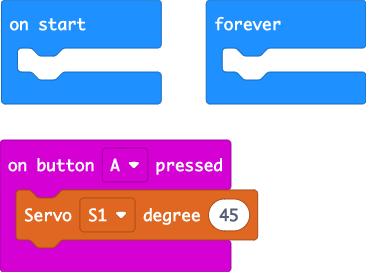
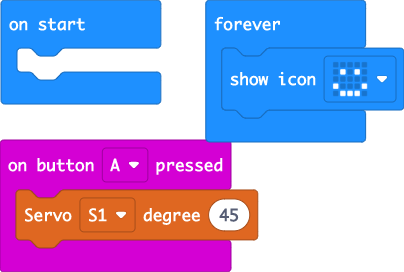
Update main.blocks, main.ts

diff --git a/main.ts b/main.ts
@@ -2,5 +2,5 @@ input.onButtonPressed(Button.A, function () {
     motor.servo(motor.Servos.S1, 45)
 })
 basic.forever(function () {
-	
+    basic.showIcon(IconNames.Happy)
 })
